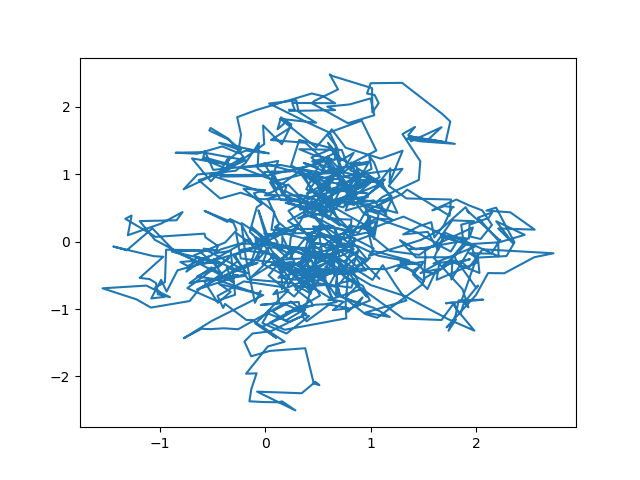
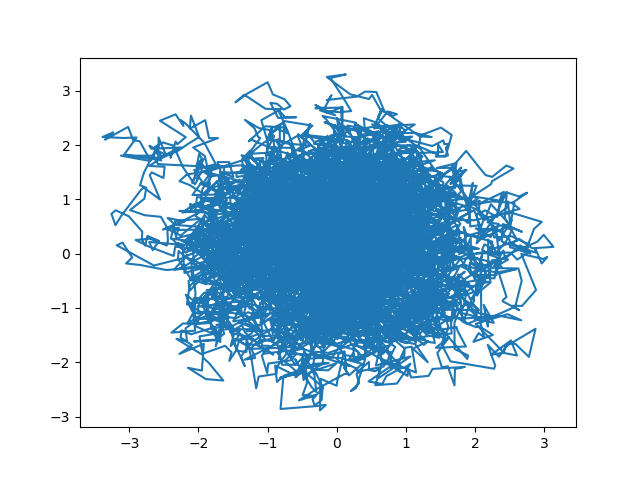
uh okay

diff --git a/notebooks/rhys.py b/notebooks/rhys.py
@@ -28,7 +28,7 @@ limits = [
     (0.8, 3.0), #bias5
 ]
 
-limits = [(-4,4),(-4,4),(-4,4),(-4,4),(-4,4)]
+limits = [(-4,4),(-4,4),(-4,4)]
 nparam = len(limits)
 
 def mock_posterior_and_gradient(p):
@@ -49,7 +49,7 @@ def run_hmc(n_it, filebase, epsilon, steps_per_iteration):
     results = sampler.sample(n_it, fid_params)
 
     # continue
-    for i in range(100):
+    for i in range(1000):
         # Save chain
         chain = np.array(sampler.trace)
         np.savetxt(filename, chain)
@@ -59,7 +59,7 @@ def run_hmc(n_it, filebase, epsilon, steps_per_iteration):
 
 run_hmc(10, "hmc_002_10", 0.02, 10)
 
-chain = np.genfromtxt("hmc_002_10.5.txt")
+chain = np.genfromtxt("hmc_002_10.3.txt")
 print(chain.shape)
 plt.plot(chain[:,0],chain[:,1])
 plt.savefig("plot.png")
